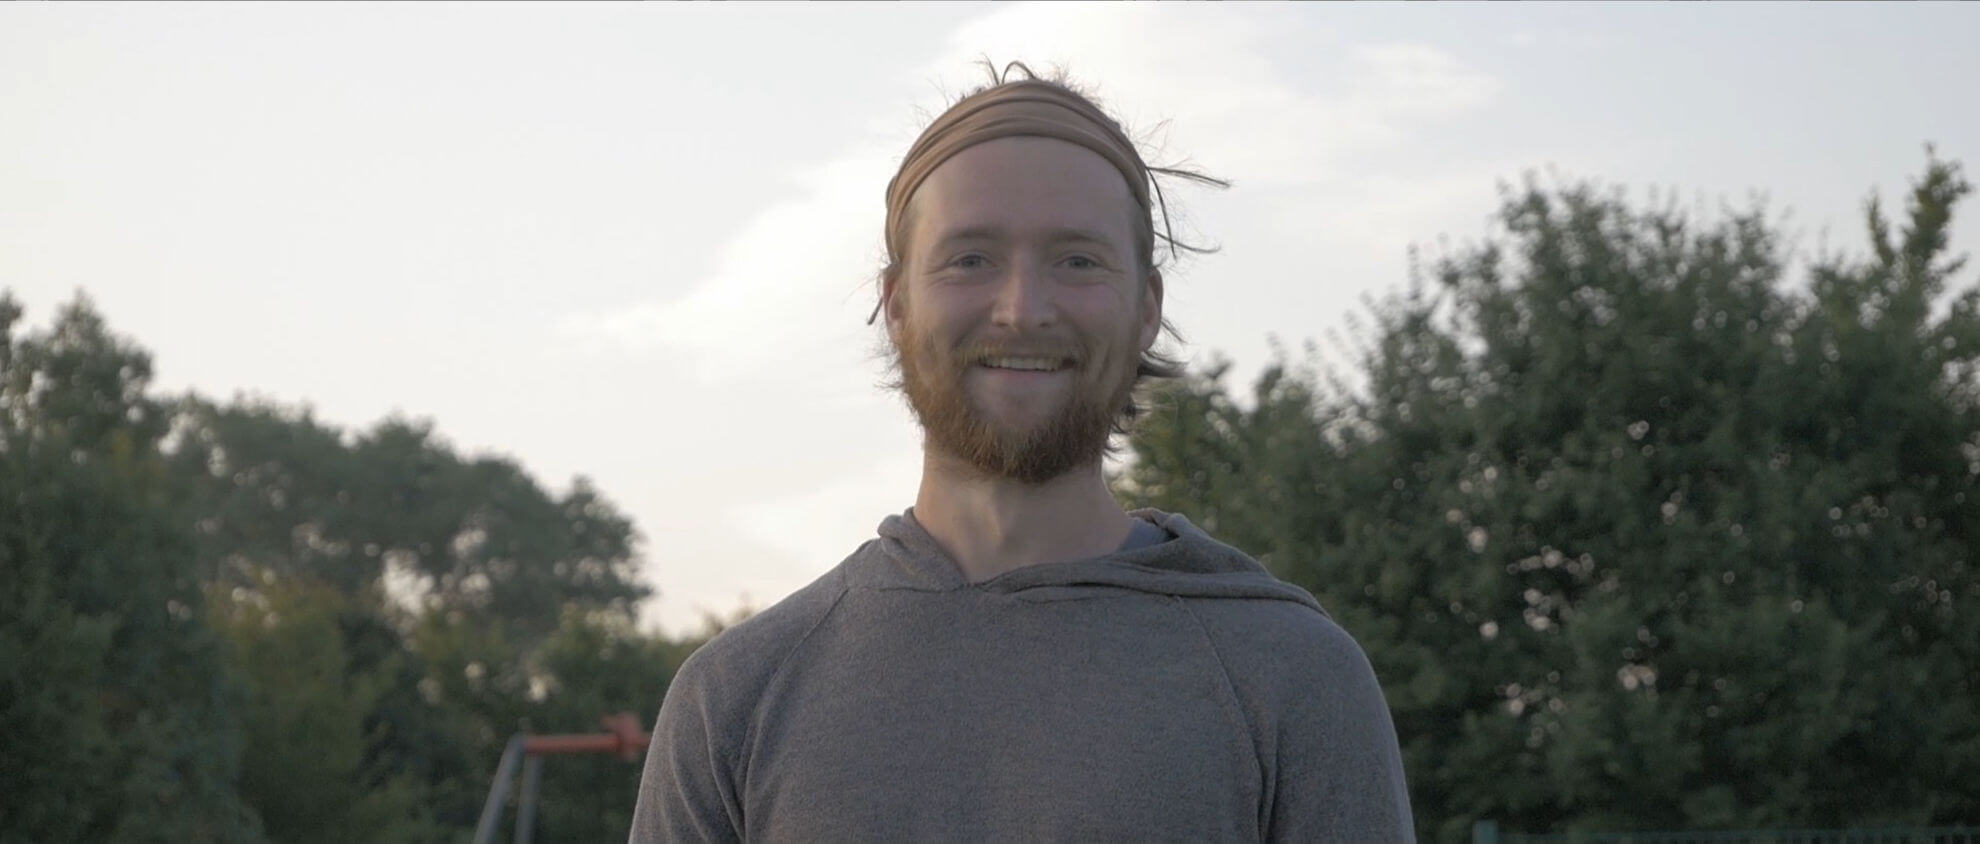
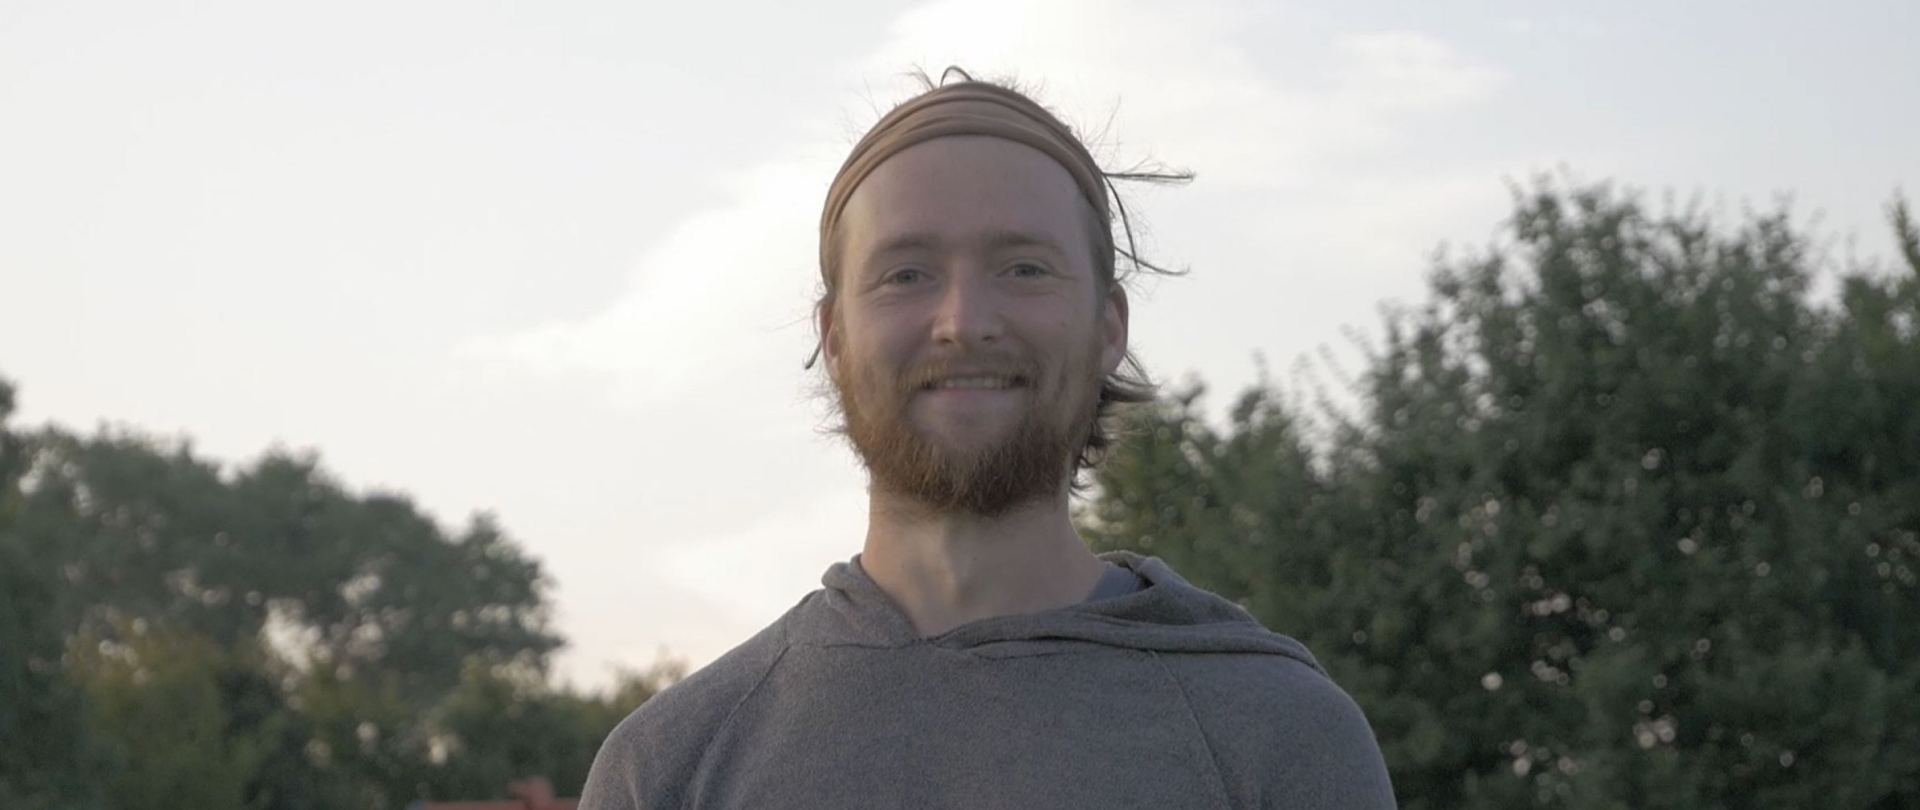
new image and merge

diff --git a/pages/index.vue b/pages/index.vue
@@ -72,7 +72,7 @@
 										rounded-md
 										ç
 									"
-									src="/img/Hero.png"
+									src="/img/Hero.jpg"
 									alt="People working on laptops"
 								/>
 							</div>
